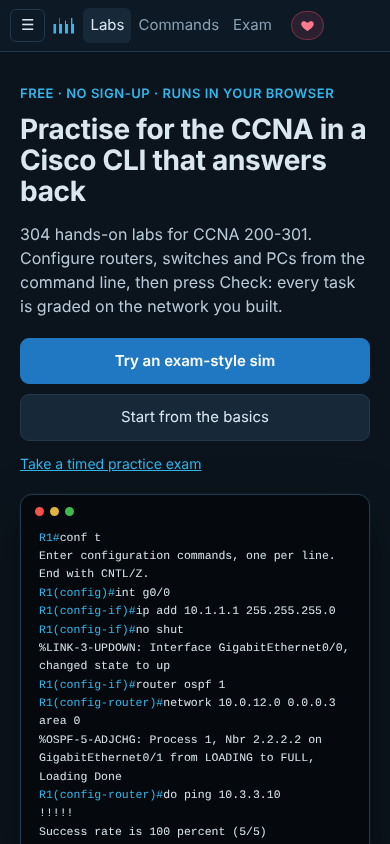
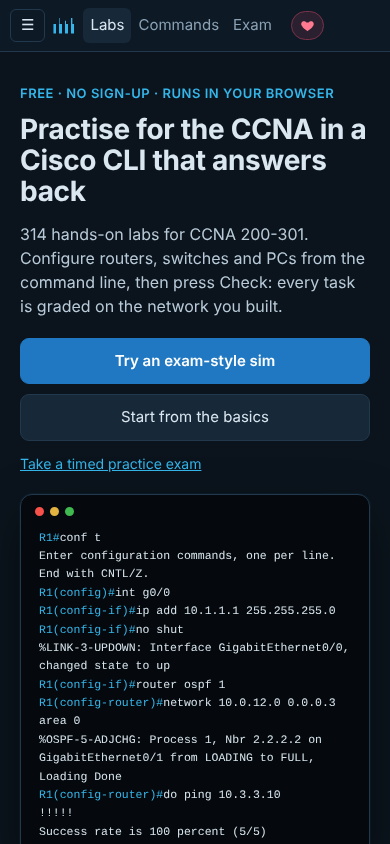
readme, meta tags, preview image and screenshots: 314 labs, 33 challenges, 53 theory sets, 24 host OS labs
Claude-Session: https://claude.ai/code/session_01DKqSYpXcHfRcwFMhr8jyc9

Changed region(s): [[0.4923, 0.2464, 0.8, 0.3081], [0.0923, 0.2464, 0.4615, 0.3081]]

diff --git a/index.html b/index.html
@@ -4,14 +4,14 @@
 <meta charset="utf-8">
 <meta name="viewport" content="width=device-width, initial-scale=1">
 <title>CCNA Practise: free CCNA 200-301 labs with a Cisco IOS CLI in your browser</title>
-<meta name="description" content="304 free hands-on CCNA 200-301 labs in the browser. Type Cisco IOS commands into routers, switches and PCs; every task is checked against the network you built. Exam mode, challenge labs, no sign-up.">
+<meta name="description" content="314 free hands-on CCNA 200-301 labs in the browser. Type Cisco IOS commands into routers, switches and PCs; every task is checked against the network you built. Exam mode, challenge labs, no sign-up.">
 <meta name="theme-color" content="#0b141d">
 <meta name="build" content="dev">
 <link rel="icon" href="favicon.svg" type="image/svg+xml">
 <meta property="og:type" content="website">
 <meta property="og:site_name" content="CCNA Practise">
 <meta property="og:title" content="CCNA Practise: free CCNA labs with a Cisco IOS CLI in your browser">
-<meta property="og:description" content="304 hands-on labs for CCNA 200-301: routers, switches and PCs you configure from the CLI, checked automatically. Exam mode and challenge labs. Free, no sign-up.">
+<meta property="og:description" content="314 hands-on labs for CCNA 200-301: routers, switches and PCs you configure from the CLI, checked automatically. Exam mode and challenge labs. Free, no sign-up.">
 <meta property="og:url" content="https://arpwatcher.github.io/CCNA-Practise-/">
 <meta property="og:image" content="https://arpwatcher.github.io/CCNA-Practise-/og.png">
 <meta property="og:image:width" content="1200">

diff --git a/README.md b/README.md
@@ -4,7 +4,7 @@
 
 **Free CCNA 200-301 labs with a Cisco IOS command line, right in your browser.**
 
-304 hands-on labs · 65 exam-style simulations · 32 challenge labs · 47 theory question sets · exam mode · no sign-up, no install
+314 hands-on labs · 65 exam-style simulations · 33 challenge labs · 53 theory question sets · exam mode · no sign-up, no install
 
 ### [Open the labs →](https://arpwatcher.github.io/CCNA-Practise-/)
 
@@ -71,9 +71,9 @@ answer passes.
 | Security | SSH, AAA with TACACS+/RADIUS, port security, DHCP snooping, DAI | 17 |
 | IPv6 | addressing, EUI-64, link-local, SLAAC, static routes | 10 |
 | Device management | IOS image, boot system, config-register, TFTP | 4 |
-| Host OS commands | Windows, Linux and macOS: ipconfig, ip addr, ifconfig, ARP, DNS | 21 |
-| Exhibit questions | subnetting (VLSM and drills), wildcard masks, interface errors, NAT terms, OSPF LSA types, PoE, Layer 3 switches, wireless signal and roaming, IPv6 subnetting, address types and Neighbor Discovery, STP port states and timers, OSPF neighbor states, passwords and hashing, control/data/management planes, private ranges and APIPA, ports and TCP/UDP, DHCP, DNS, SNMP and NTP, syslog, FHRP, 802.1X, WPA/WPA2/WPA3, WLAN creation in the WLC GUI, AP modes, 2.4 GHz channels, threats, VPNs, WAN links, cloud, cabling, architectures, virtualization, SD-Access, REST, JSON, Ansible and other config tools, QoS | 47 |
-| Challenge labs | bigger topologies, several topics, faults and questions | 32 |
+| Host OS commands | Windows, Linux and macOS: ipconfig, ip addr, ifconfig, routing tables, ARP, DNS | 24 |
+| Exhibit questions | subnetting (VLSM and drills), wildcard masks, ACL placement, OSPF cost, CDP vs LLDP, port security modes, IPv6 static routes, TCP windowing, interface errors, NAT terms, OSPF LSA types, PoE, Layer 3 switches, wireless signal and roaming, IPv6 subnetting, address types and Neighbor Discovery, STP port states and timers, OSPF neighbor states, passwords and hashing, control/data/management planes, private ranges and APIPA, ports and TCP/UDP, DHCP, DNS, SNMP and NTP, syslog, FHRP, 802.1X, WPA/WPA2/WPA3, WLAN creation in the WLC GUI, AP modes, 2.4 GHz channels, threats, VPNs, WAN links, cloud, cabling, architectures, virtualization, SD-Access, REST, JSON, Ansible and other config tools, QoS | 53 |
+| Challenge labs | bigger topologies, several topics, faults and questions | 33 |
 | Legacy (not on 200-301) | RIP, EIGRP, VTP | 5 |
 
 Labs marked **sim** are short scenarios like the exam simulations. The
